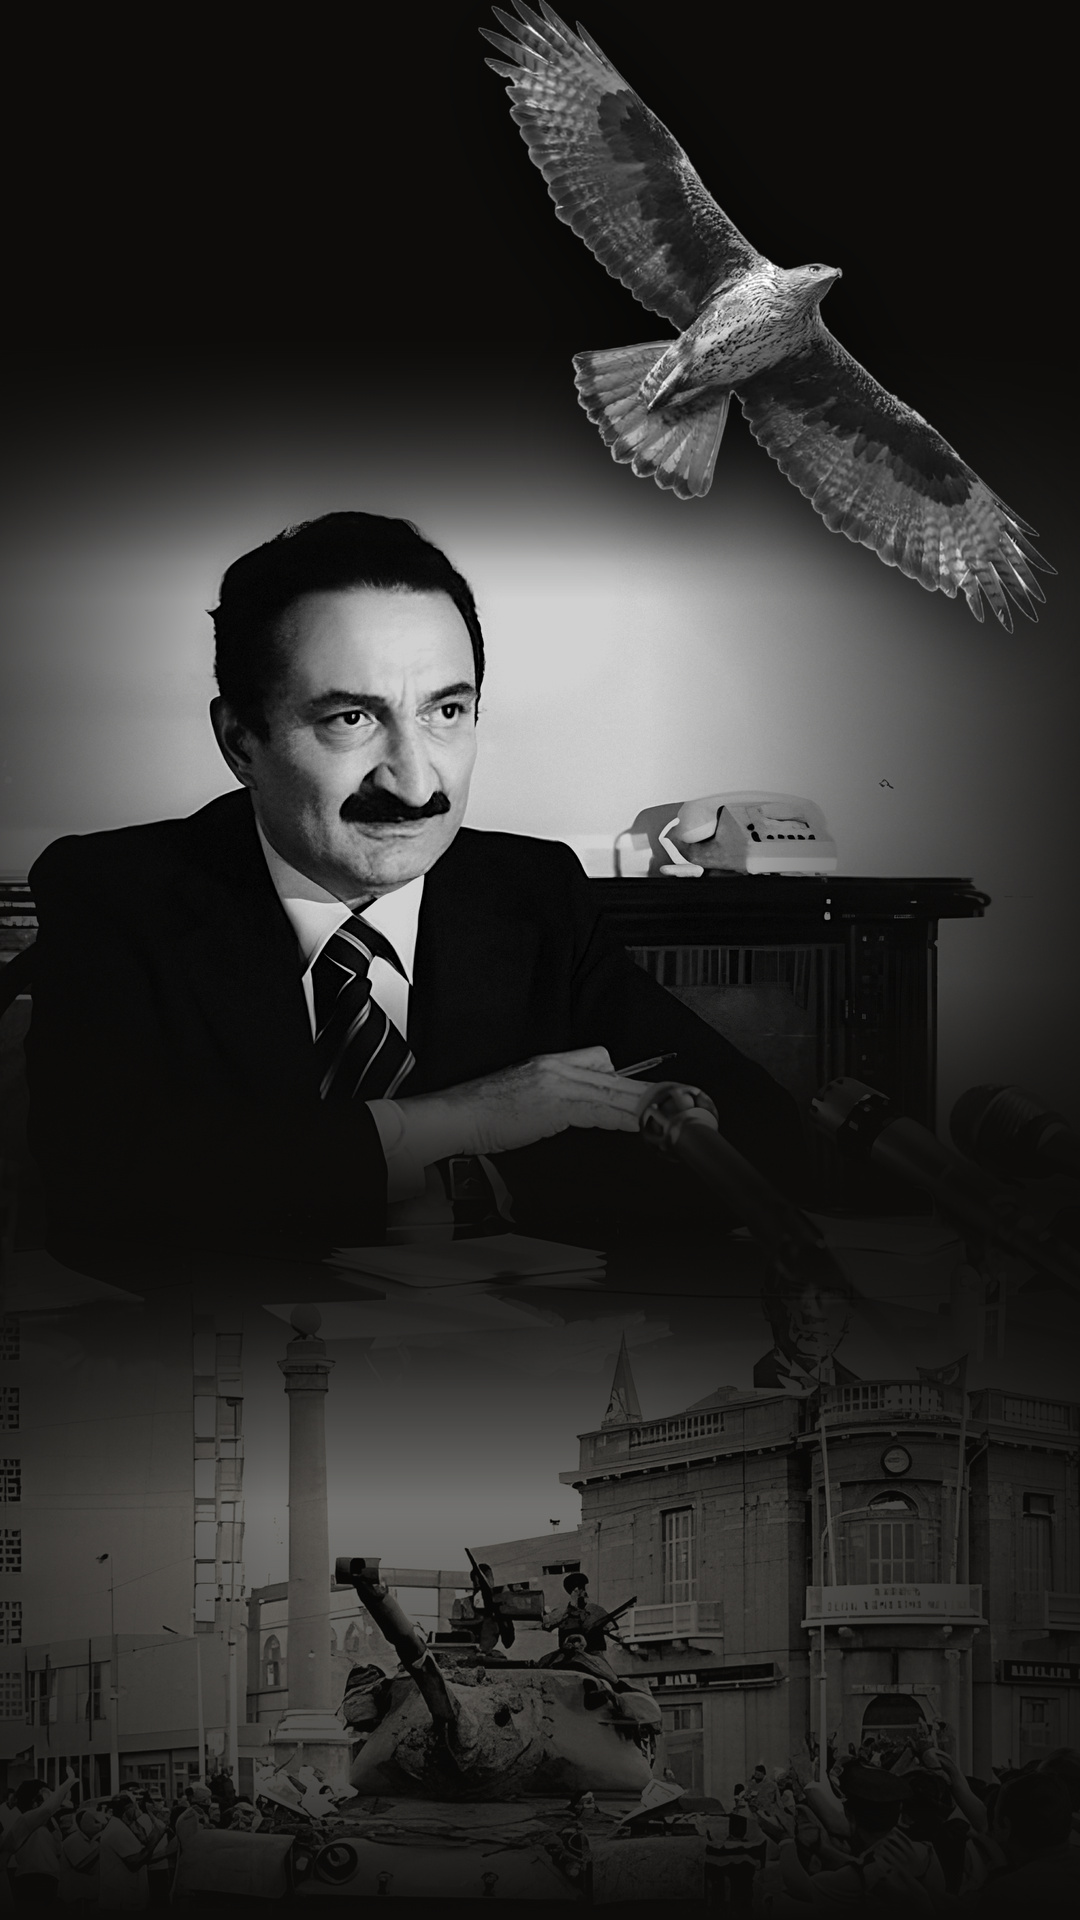
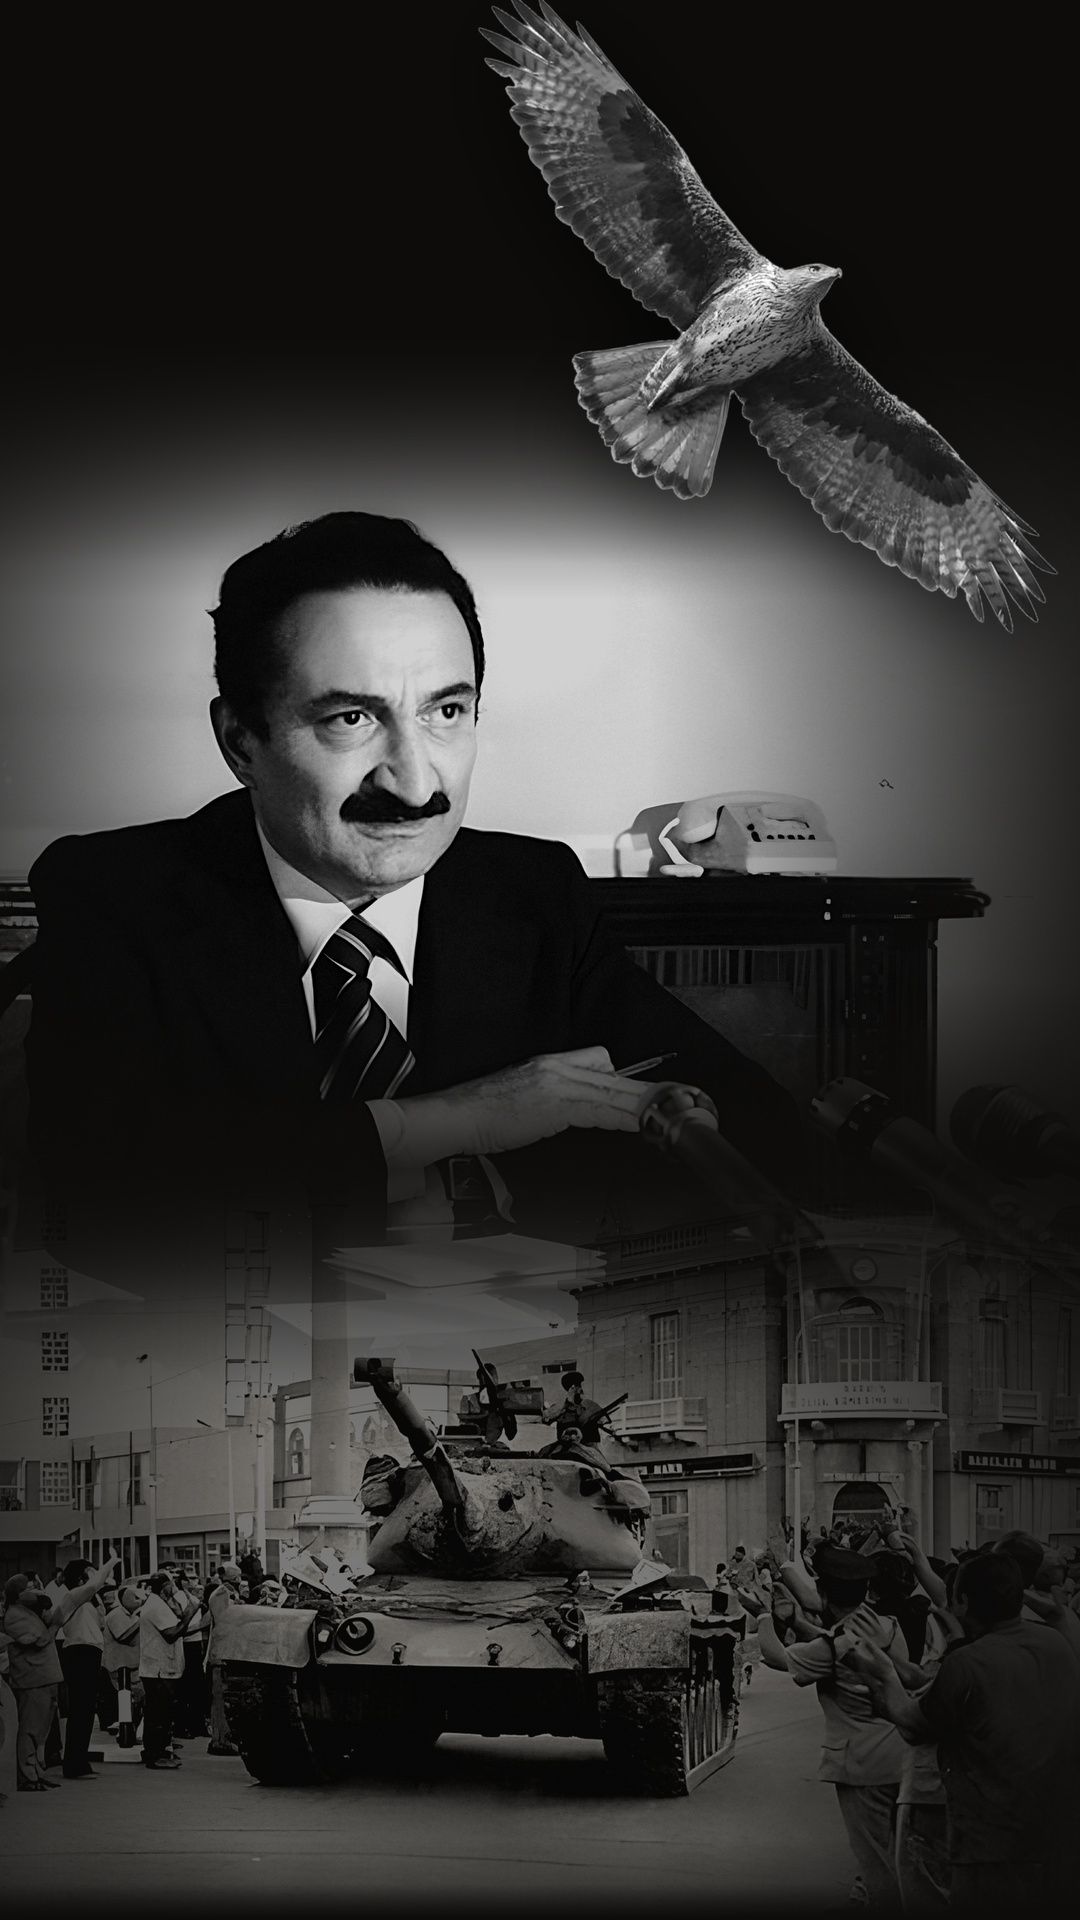
Ecevit story: tank ve kalabalık görünür hale getirildi
Claude-Session: https://claude.ai/code/session_01SatttGbgBLoCnk9KGLypWv

Changed region(s): [[0.0, 0.625, 0.9472, 1.0], [0.9472, 0.75, 0.9778, 0.8125]]

diff --git a/tasarim/kisisel/ecevit-kibris/gorsel.html b/tasarim/kisisel/ecevit-kibris/gorsel.html
@@ -1,9 +1,9 @@
 <!doctype html><html lang="tr"><meta charset="utf-8"><style>
 html,body{margin:0;width:1080px;height:1920px;overflow:hidden;background:#0d0c0b}
 .ecv{position:absolute;left:-400px;top:330px;height:1060px;-webkit-mask-image:linear-gradient(180deg,transparent 0,#000 22%,#000 100%);filter:contrast(1.08) brightness(.82)}
-.tank{position:absolute;left:-120px;top:1230px;width:1320px;-webkit-mask-image:linear-gradient(180deg,transparent 0,#000 30%,#000 85%,transparent 100%);filter:sepia(.2) brightness(.95)}
+.tank{position:absolute;left:-60px;top:1060px;width:1200px;filter:sepia(.15) brightness(1.08) contrast(1.05);-webkit-mask-image:linear-gradient(180deg,transparent 0,#000 28%,#000 96%,transparent 100%)}
 .f{position:absolute;inset:0;background:
- linear-gradient(180deg,#0d0c0b 0,#0d0c0b 300px,rgba(13,12,11,.6) 430px,rgba(13,12,11,0) 600px,rgba(13,12,11,0) 980px,rgba(13,12,11,.88) 1190px,rgba(13,12,11,.25) 1360px,rgba(13,12,11,0) 1500px,rgba(13,12,11,.4) 1780px,#0d0c0b 1920px),
+ linear-gradient(180deg,#0d0c0b 0,#0d0c0b 300px,rgba(13,12,11,.6) 430px,rgba(13,12,11,0) 600px,rgba(13,12,11,0) 980px,rgba(13,12,11,.85) 1170px,rgba(13,12,11,.2) 1330px,rgba(13,12,11,0) 1450px,rgba(13,12,11,0) 1840px,rgba(13,12,11,.6) 1920px),
  linear-gradient(90deg,rgba(13,12,11,.55) 0,rgba(13,12,11,0) 25%,rgba(13,12,11,0) 60%,rgba(13,12,11,.75)),
  radial-gradient(700px 520px at 470px 760px,rgba(13,12,11,0) 40%,rgba(13,12,11,.55))}
 .kartal{position:absolute;left:520px;top:-40px;width:500px;transform:rotate(-8deg);filter:drop-shadow(0 20px 40px rgba(0,0,0,.6))}
